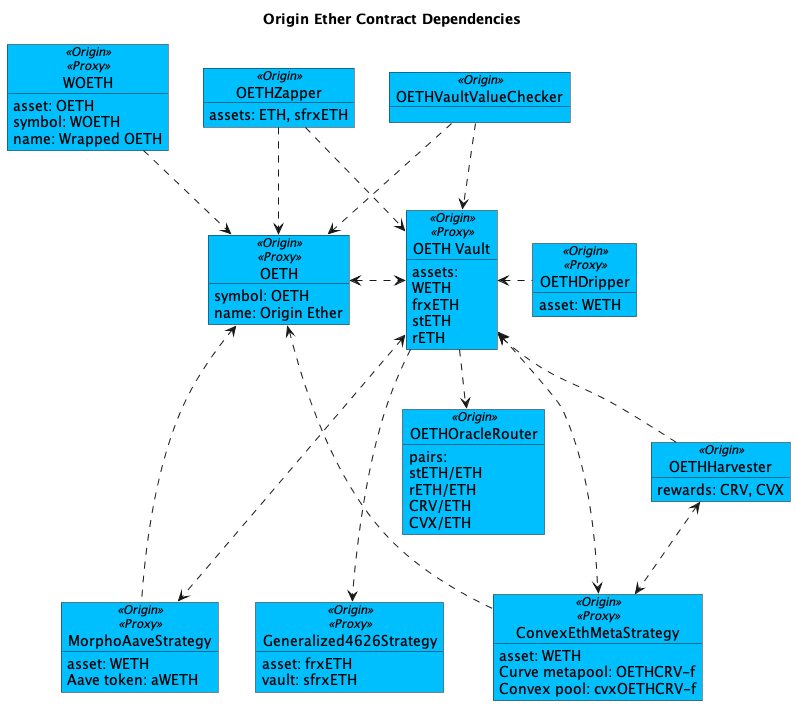
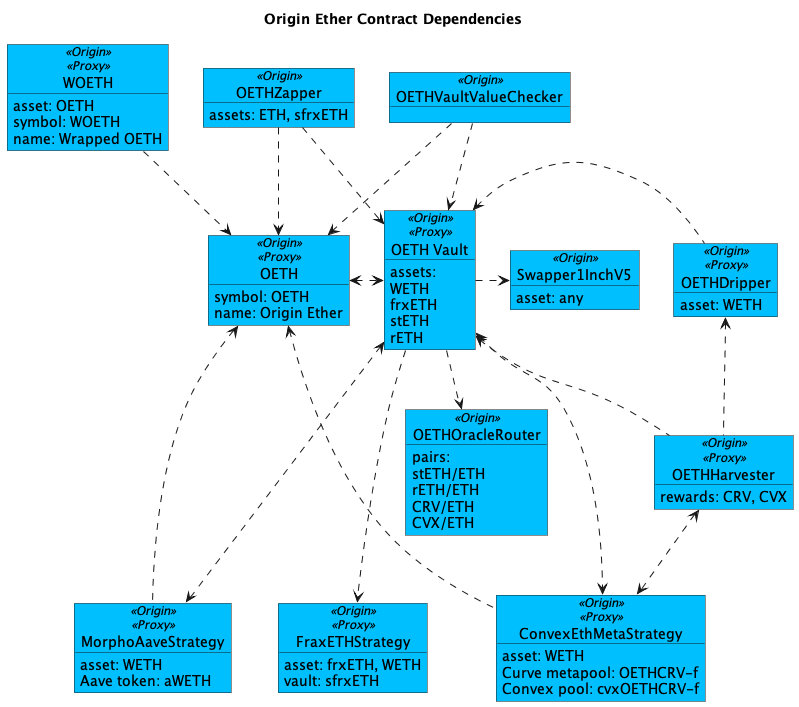
GITBOOK-191: OETH Vault upgrade changes for collateral swaps

diff --git a/smart-contracts/registry/oeth-registry.md b/smart-contracts/registry/oeth-registry.md
@@ -2,11 +2,11 @@
 
 Most of Origin's contracts are upgradable via a well-known proxy wrapper and an implementation contract. The Vault is split into VaultAdmin and VaultCore to work around the maximum contract size limit on Ethereum.
 
-<figure><img src="../../.gitbook/assets/oethContracts (4).png" alt=""><figcaption><p>OETH Contract Dependencies</p></figcaption></figure>
+<figure><img src="../../.gitbook/assets/oethContracts (1).png" alt=""><figcaption><p>OETH Contract Dependencies</p></figcaption></figure>
 
 **OETH Core**
 
-<table><thead><tr><th width="190">Contract</th><th width="633">Address</th></tr></thead><tbody><tr><td>OETH Token</td><td>0x856c4Efb76C1D1AE02e20CEB03A2A6a08b0b8dC3</td></tr><tr><td>OETH<br>Implementation</td><td>0x7c1F8b1824f2758060CfC9Dd964C590710367A1E</td></tr><tr><td>wOETH Token</td><td>0xDcEe70654261AF21C44c093C300eD3Bb97b78192</td></tr><tr><td>wOETH<br>Implementation</td><td>0x9C5a92AaA2A4373D6bd20F7b45cdEb7A13f9AA79</td></tr><tr><td>OETH Vault</td><td> 0x39254033945AA2E4809Cc2977E7087BEE48bd7Ab</td></tr><tr><td>OETH VaultAdmin<br>Implementation</td><td>0x6a16335a203d4151892Ca1260CCA9d500Fe82298</td></tr><tr><td>OETH VaultCore<br>Implementation</td><td>0x997c35A0bf8E21404aE4379841E0603C957138c3</td></tr><tr><td>OETH Zapper</td><td>0x9858e47BCbBe6fBAC040519B02d7cd4B2C470C66</td></tr></tbody></table>
+<table><thead><tr><th width="190">Contract</th><th width="633">Address</th></tr></thead><tbody><tr><td>OETH Token</td><td>0x856c4Efb76C1D1AE02e20CEB03A2A6a08b0b8dC3</td></tr><tr><td>OETH<br>Implementation</td><td>0x7c1F8b1824f2758060CfC9Dd964C590710367A1E</td></tr><tr><td>wOETH Token</td><td>0xDcEe70654261AF21C44c093C300eD3Bb97b78192</td></tr><tr><td>wOETH<br>Implementation</td><td>0x9C5a92AaA2A4373D6bd20F7b45cdEb7A13f9AA79</td></tr><tr><td>OETH Vault</td><td> 0x39254033945AA2E4809Cc2977E7087BEE48bd7Ab</td></tr><tr><td>OETH VaultAdmin<br>Implementation</td><td>0x31a91336414d3B955E494E7d485a6B06b55FC8fB</td></tr><tr><td>OETH VaultCore<br>Implementation</td><td>0xEA24e9Bac006DE9635Ac7fA4D767fFb64FB5645c</td></tr><tr><td>OETH Zapper</td><td>0x9858e47BCbBe6fBAC040519B02d7cd4B2C470C66</td></tr></tbody></table>
 
 **OETH Strategies**
 
@@ -29,3 +29,7 @@ OETH is backed by WETH and the following liquid staking derivates:
 The following Chainlink oracles are used to protect the vault in case a backing asset loses value. They also offer slippage protection when harvesting rewards tokens.
 
 <table><thead><tr><th width="181">Pair</th><th>Contract</th></tr></thead><tbody><tr><td><a href="https://data.chain.link/ethereum/mainnet/crypto-eth/steth-eth">stETH/ETH</a></td><td>0x86392dc19c0b719886221c78ab11eb8cf5c52812</td></tr><tr><td><a href="https://data.chain.link/ethereum/mainnet/crypto-eth/reth-eth">rETH/ETH</a></td><td>0x536218f9e9eb48863970252233c8f271f554c2d0</td></tr><tr><td><a href="https://data.chain.link/ethereum/mainnet/crypto-eth/crv-eth">CRV/ETH</a></td><td>0x8a12be339b0cd1829b91adc01977caa5e9ac121e</td></tr><tr><td><a href="https://data.chain.link/ethereum/mainnet/crypto-eth/cvx-eth">CVX/ETH</a></td><td>0xC9CbF687f43176B302F03f5e58470b77D07c61c6</td></tr></tbody></table>
+
+**Swapper**
+
+<table><thead><tr><th width="204">Contract</th><th>Address</th></tr></thead><tbody><tr><td>Swapper 1Inch V5</td><td>0xcD0fcF8a31Bc78ec07752e9CCD3960E936D18366</td></tr></tbody></table>

diff --git a/governance/admin-privileges.md b/governance/admin-privileges.md
@@ -18,7 +18,6 @@ Some functionality, such as rebalancing funds between strategies or pausing depo
 
 The strategist multisig can do the following actions on the vault:
 
-* reallocate - move funds between strategies
 * depositToStrategy - deposit multiple assets from the vault into the strategy.
 * withdrawFromStrategy - withdraw multiple assets from the strategy to the vault.
 * setVaultBuffer - adjust the amount of funds held outside strategies for cheaper redeems.
@@ -28,3 +27,4 @@ The strategist multisig can do the following actions on the vault:
 * pauseRebase - pause all rebases
 * pauseCapital - pause all mints and redeems
 * unpauseCapital - allow all mints and redeems
+* swapCollateral - swaps collateral assets sitting in the vault
